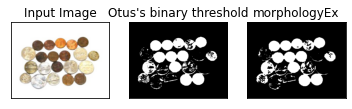
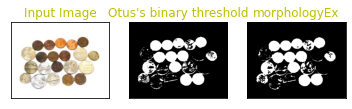
Updated Readme.md

Changed region(s): [[0.0625, 0.055, 0.9688, 0.1927]]

diff --git a/int-cv-1/Image Segmentation with Watershed Algorithm/Image Segmentation with Watershed Algorithm.md b/int-cv-1/Image Segmentation with Watershed Algorithm/Image Segmentation with Watershed Algorithm.md
@@ -36,9 +36,8 @@ We shall start by finding an approximate estimate of the coins. For that, we wil
 
 Below is the picture before applying Otsu's thresholding:
 
-<p align="center">
-   <img src="https://github.com/SamarthMR/Intern-Work/blob/main/int-cv-1/images/Dev_coins.jpg" alt="Input Image"
-</p>
+![Dev_coins.jpg](attachment:Dev_coins.jpg)
+#### <center>Input Image<center>
 
 
 ```python
@@ -46,7 +45,7 @@ import numpy as np
 import cv2
 from matplotlib import pyplot as plt
 
-img = cv.imread('C:/Users/mrsam/Downloads/Dev_coins.jpg')
+img = cv2.imread('C:/Users/mrsam/Downloads/Dev_coins.jpg')
 b,g,r = cv2.split(img)
 rgb_img = cv2.merge([r,g,b])
 
@@ -54,17 +53,16 @@ gray = cv2.cvtColor(img,cv2.COLOR_BGR2GRAY)
 ret, thresh = cv2.threshold(gray,0,255,cv2.THRESH_BINARY_INV+cv2.THRESH_OTSU)
 
 plt.subplot(121),plt.imshow(rgb_img)
-plt.title('Input Image'), plt.xticks([]), plt.yticks([])
+plt.title('Input Image', color='y'), plt.xticks([]), plt.yticks([])
 plt.subplot(122),plt.imshow(thresh, 'gray')
-plt.title("Otus's binary threshold"), plt.xticks([]), plt.yticks([])
+plt.title("Otus's binary threshold", color='y'), plt.xticks([]), plt.yticks([])
 plt.show()
 ```
 
 
     
-<p align="center">
-   <img src="https://github.com/SamarthMR/Intern-Work/blob/main/int-cv-1/images/output_8_0.png" alt="Output Image"
-</p>
+![png](output_8_0.png)
+    
 
 
 The right side of the image above is the output image after applying Otsu's Thresholding.
@@ -85,7 +83,7 @@ import numpy as np
 import cv2
 from matplotlib import pyplot as plt
 
-img = cv.imread('C:/Users/mrsam/Downloads/Dev_coins.jpg')
+img = cv2.imread('C:/Users/mrsam/Downloads/Dev_coins.jpg')
 b,g,r = cv2.split(img)
 rgb_img = cv2.merge([r,g,b])
 
@@ -99,18 +97,18 @@ opening = cv2.morphologyEx(thresh,cv2.MORPH_OPEN,kernel, iterations = 2)
 #closing = cv2.morphologyEx(thresh,cv2.MORPH_CLOSE,kernel, iterations = 2)
 
 plt.subplot(131),plt.imshow(rgb_img)
-plt.title('Input Image'), plt.xticks([]), plt.yticks([])
+plt.title('Input Image', color='y'), plt.xticks([]), plt.yticks([])
 plt.subplot(132),plt.imshow(thresh, 'gray')
-plt.title("Otus's binary threshold"), plt.xticks([]), plt.yticks([])
+plt.title("Otus's binary threshold", color='y'), plt.xticks([]), plt.yticks([])
 plt.subplot(133),plt.imshow(opening, 'gray')
-plt.title("morphologyEx"), plt.xticks([]), plt.yticks([])
+plt.title("morphologyEx", color='y'), plt.xticks([]), plt.yticks([])
 plt.show()
 ```
 
+
     
-<p align="center">
-   <img src="https://github.com/SamarthMR/Intern-Work/blob/main/int-cv-1/images/output_13_0.png" alt="Opening"
-</p>
+![png](output_13_0.png)
+    
 
 
 The above output is obtained when the **Opening** effect is applied to the sample.  
@@ -122,7 +120,7 @@ import numpy as np
 import cv2
 from matplotlib import pyplot as plt
 
-img = cv.imread('C:/Users/mrsam/Downloads/Dev_coins.jpg')
+img = cv2.imread('C:/Users/mrsam/Downloads/Dev_coins.jpg')
 b,g,r = cv2.split(img)
 rgb_img = cv2.merge([r,g,b])
 
@@ -136,18 +134,19 @@ kernel = np.ones((2,2),np.uint8)
 closing = cv2.morphologyEx(thresh,cv2.MORPH_CLOSE,kernel, iterations = 2)
 
 plt.subplot(131),plt.imshow(rgb_img)
-plt.title('Input Image'), plt.xticks([]), plt.yticks([])
+plt.title('Input Image', color='y'), plt.xticks([]), plt.yticks([])
 plt.subplot(132),plt.imshow(thresh, 'gray')
-plt.title("Otus's binary threshold"), plt.xticks([]), plt.yticks([])
+plt.title("Otus's binary threshold", color='y'), plt.xticks([]), plt.yticks([])
 plt.subplot(133),plt.imshow(closing, 'gray')
-plt.title("morphologyEx"), plt.xticks([]), plt.yticks([])
+plt.title("morphologyEx", color='y'), plt.xticks([]), plt.yticks([])
 plt.show()
 ```
 
-<p align="center">
-   <img src="https://github.com/SamarthMR/Intern-Work/blob/main/int-cv-1/images/output_15_0.png" alt="Closing"
-</p>
+
     
+![png](output_15_0.png)
+    
+
 
 The above output is obtained when the **Closing** effect is applied to the sample.  
 But, the Closing seems to be working fairly better and even with 2x2 kernel.
@@ -168,7 +167,7 @@ import numpy as np
 import cv2
 from matplotlib import pyplot as plt
 
-img = cv.imread('C:/Users/mrsam/Downloads/Dev_coins.jpg')
+img = cv2.imread('C:/Users/mrsam/Downloads/Dev_coins.jpg')
 b,g,r = cv2.split(img)
 rgb_img = cv2.merge([r,g,b])
 
@@ -185,20 +184,21 @@ closing = cv2.morphologyEx(thresh,cv2.MORPH_CLOSE,kernel, iterations = 2)
 sure_bg = cv2.dilate(closing,kernel,iterations=3)
 
 plt.subplot(221),plt.imshow(rgb_img)
-plt.title('Input Image'), plt.xticks([]), plt.yticks([])
+plt.title('Input Image', color='y'), plt.xticks([]), plt.yticks([])
 plt.subplot(222),plt.imshow(thresh, 'gray')
-plt.title("Otus's binary threshold"), plt.xticks([]), plt.yticks([])
+plt.title("Otus's binary threshold", color='y'), plt.xticks([]), plt.yticks([])
 plt.subplot(223),plt.imshow(closing, 'gray')
-plt.title("morphologyEx:Closing:2x2"), plt.xticks([]), plt.yticks([])
+plt.title("morphologyEx:Closing:2x2", color='y'), plt.xticks([]), plt.yticks([])
 plt.subplot(224),plt.imshow(sure_bg, 'gray')
-plt.title("Dilation"), plt.xticks([]), plt.yticks([])
+plt.title("Dilation", color='y'), plt.xticks([]), plt.yticks([])
 plt.show()
 ```
+
+
     
-<p align="center">
-   <img src="https://github.com/SamarthMR/Intern-Work/blob/main/int-cv-1/images/output_19_0.png" alt="Closing"
-</p>
+![png](output_19_0.png)
     
+
 
 ## **Distance Transform & Threshold**
 
@@ -220,7 +220,7 @@ import numpy as np
 import cv2
 from matplotlib import pyplot as plt
 
-img = cv.imread('C:/Users/mrsam/Downloads/Dev_coins.jpg')
+img = cv2.imread('C:/Users/mrsam/Downloads/Dev_coins.jpg')
 b,g,r = cv2.split(img)
 rgb_img = cv2.merge([r,g,b])
 
@@ -243,28 +243,29 @@ dist_transform = cv2.distanceTransform(sure_bg,cv2.DIST_L2,3)
 ret, sure_fg = cv2.threshold(dist_transform,0.1*dist_transform.max(),255,0)
 
 plt.subplot(321),plt.imshow(rgb_img)
-plt.title('Input Image'), plt.xticks([]), plt.yticks([])
+plt.title('Input Image', color='y'), plt.xticks([]), plt.yticks([])
 plt.subplot(322),plt.imshow(thresh, 'gray')
-plt.title("Otsu's binary threshold"), plt.xticks([]), plt.yticks([])
+plt.title("Otsu's binary threshold", color='y'), plt.xticks([]), plt.yticks([])
 
 plt.subplot(323),plt.imshow(closing, 'gray')
-plt.title("morphologyEx:Closing:2x2"), plt.xticks([]), plt.yticks([])
+plt.title("morphologyEx:Closing:2x2", color='y'), plt.xticks([]), plt.yticks([])
 plt.subplot(324),plt.imshow(sure_bg, 'gray')
-plt.title("Dilation"), plt.xticks([]), plt.yticks([])
+plt.title("Dilation", color='y'), plt.xticks([]), plt.yticks([])
 
 plt.subplot(325),plt.imshow(dist_transform, 'gray')
-plt.title("Distance Transform"), plt.xticks([]), plt.yticks([])
+plt.title("Distance Transform", color='y'), plt.xticks([]), plt.yticks([])
 plt.subplot(326),plt.imshow(sure_fg, 'gray')
-plt.title("Thresholding"), plt.xticks([]), plt.yticks([])
+plt.title("Thresholding", color='y'), plt.xticks([]), plt.yticks([])
 
 plt.tight_layout()
 plt.show()
 ```
 
-<p align="center">
-   <img src="https://github.com/SamarthMR/Intern-Work/blob/main/int-cv-1/images/output_22_0.png" alt="Closing"
-</p>
+
     
+![png](output_22_0.png)
+    
+
 
 ## **Marker-based Watershed**
 
@@ -276,7 +277,7 @@ import numpy as np
 import cv2
 from matplotlib import pyplot as plt
 
-img = cv.imread('C:/Users/mrsam/Downloads/Dev_coins.jpg')
+img = cv2.imread('C:/Users/mrsam/Downloads/Dev_coins.jpg')
 b,g,r = cv2.split(img)
 rgb_img = cv2.merge([r,g,b])
 
@@ -315,36 +316,36 @@ markers = cv2.watershed(img,markers)
 img[markers == -1] = [255,0,0]
 
 plt.subplot(421),plt.imshow(rgb_img)
-plt.title('Input Image'), plt.xticks([]), plt.yticks([])
+plt.title('Input Image', color='y'), plt.xticks([]), plt.yticks([])
 plt.subplot(422),plt.imshow(thresh, 'gray')
-plt.title("Otsu's binary threshold"), plt.xticks([]), plt.yticks([])
+plt.title("Otsu's binary threshold", color='y'), plt.xticks([]), plt.yticks([])
 
 plt.subplot(423),plt.imshow(closing, 'gray')
-plt.title("morphologyEx:Closing:2x2"), plt.xticks([]), plt.yticks([])
+plt.title("morphologyEx:Closing:2x2", color='y'), plt.xticks([]), plt.yticks([])
 plt.subplot(424),plt.imshow(sure_bg, 'gray')
-plt.title("Dilation"), plt.xticks([]), plt.yticks([])
+plt.title("Dilation", color='y'), plt.xticks([]), plt.yticks([])
 
 plt.subplot(425),plt.imshow(dist_transform, 'gray')
-plt.title("Distance Transform"), plt.xticks([]), plt.yticks([])
+plt.title("Distance Transform", color='y'), plt.xticks([]), plt.yticks([])
 plt.subplot(426),plt.imshow(sure_fg, 'gray')
-plt.title("Thresholding"), plt.xticks([]), plt.yticks([])
+plt.title("Thresholding", color='y'), plt.xticks([]), plt.yticks([])
 
 plt.subplot(427),plt.imshow(unknown, 'gray')
-plt.title("Unknown"), plt.xticks([]), plt.yticks([])
+plt.title("Unknown", color='y'), plt.xticks([]), plt.yticks([])
 
 plt.subplot(428),plt.imshow(img, 'gray')
-plt.title("Result from Watershed"), plt.xticks([]), plt.yticks([])
+plt.title("Result from Watershed", color='y'), plt.xticks([]), plt.yticks([])
 
 plt.tight_layout()
 plt.show()
 ```
 
-<p align="center">
-   <img src="https://github.com/SamarthMR/Intern-Work/blob/main/int-cv-1/images/output_24_0.png" alt="Closing"
-</p>
+
+    
+![png](output_24_0.png)
     
 
-The result obtained doesn't look successful as expected during the process, especially during the Dilation and Thresholding process. We have used very small dilation and threshold.
-Probably, most failures occured due to the glossy coins. So, we had to come up with a method to deal with those coins, therefore **Marker-based Watershed Algorithm** was used to obtain the required results.
+
+The result obtained doesn't look successful as expected during the process, especially during the Dilation and Thresholding process. We have used very small dilation and threshold. Probably, most failures occured due to the glossy coins. So, we had to come up with a method to deal with those coins, therefore **Marker-based Watershed Algorithm** was used to obtain the required results.
 
 
